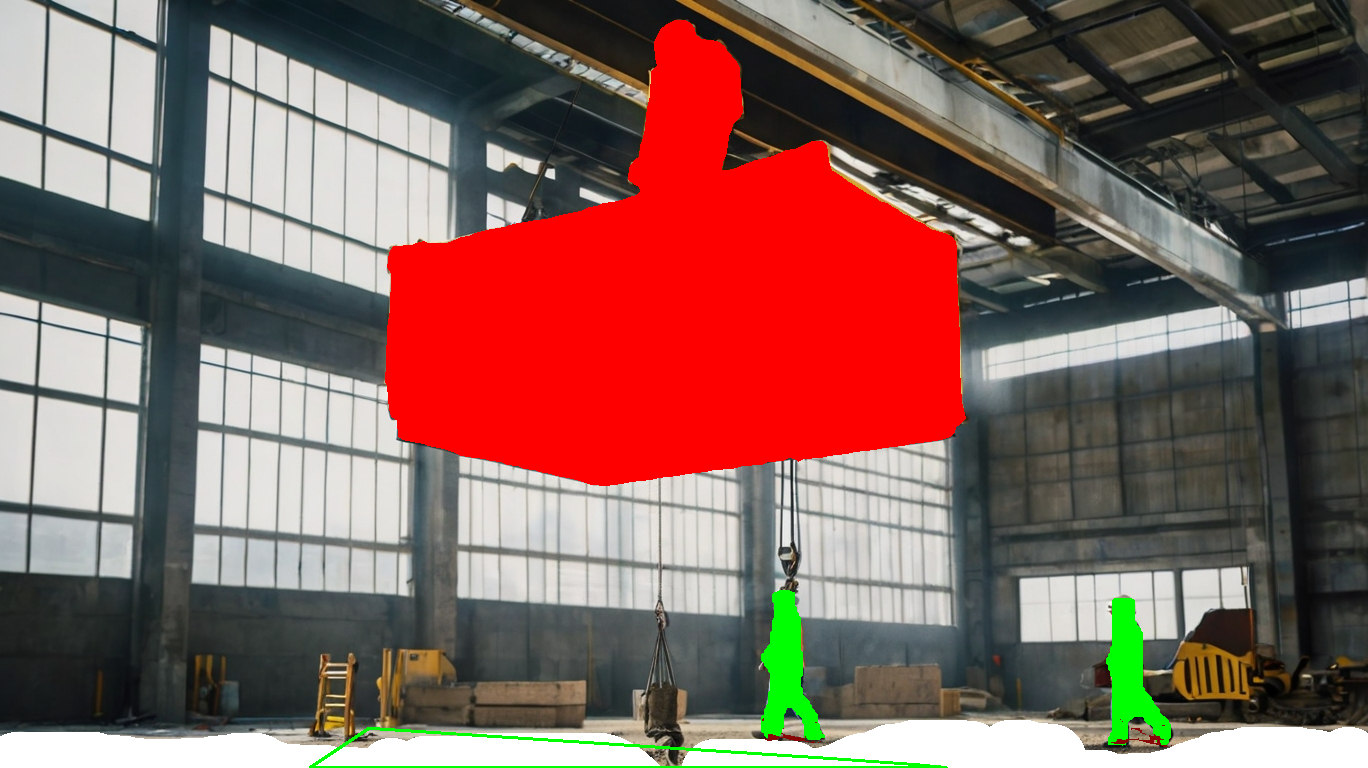
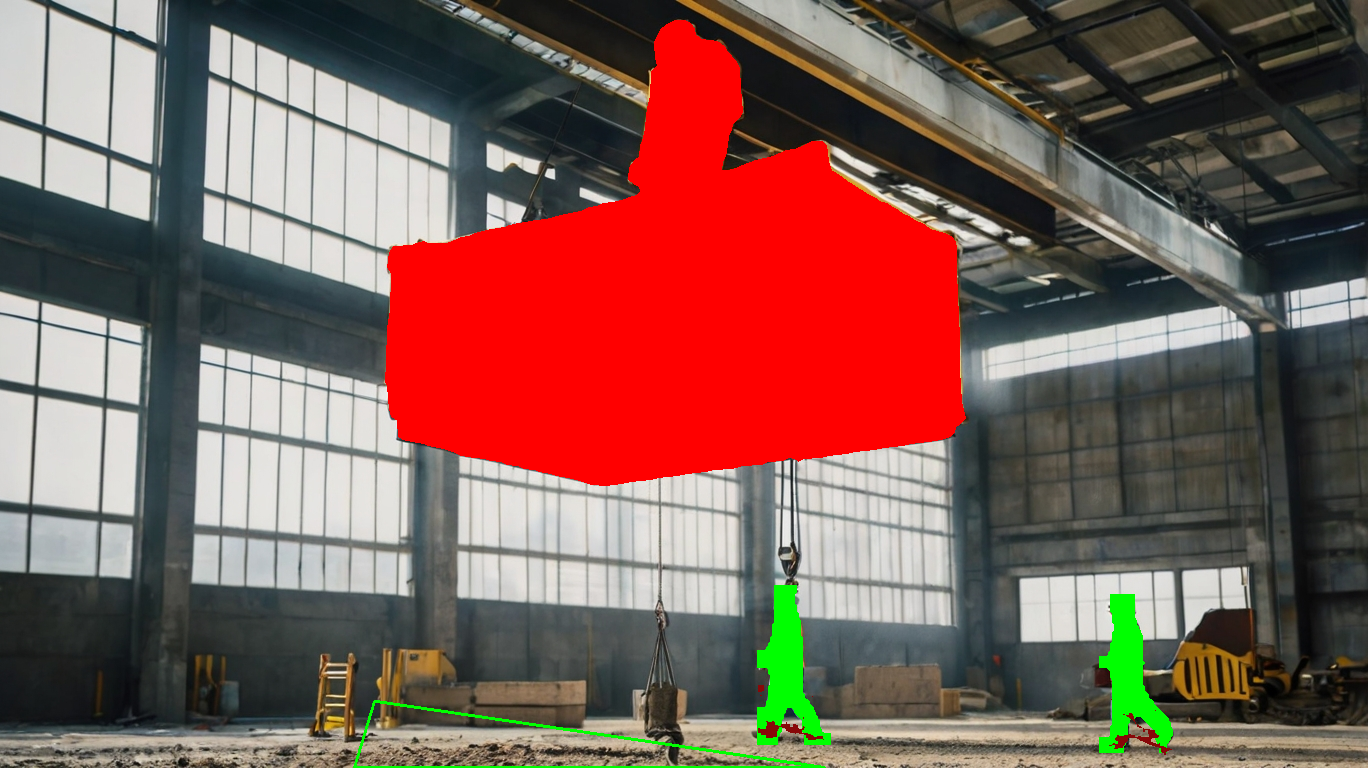
iterative method for ground detection

diff --git a/main.py b/main.py
@@ -13,9 +13,74 @@ import math
 from utils import *
 from glob import glob
 
+def distance_to_plane(XYZ, plane):
+    v1, v2, c = plane
+    normal_vector = np.cross(v1, v2)
+    normal_norm = np.linalg.norm(normal_vector)
+    normal_vector_normalized = normal_vector / normal_norm
+    c = c.reshape(1, 1, 3)
+    normal_vector_normalized = normal_vector_normalized.reshape(1, 1, 3)
+    diff = XYZ - c
+    dot_product = np.sum(diff * normal_vector_normalized, axis=2)
+    distances = np.abs(dot_product)
+    return distances
+
+def fit_ground_single(XYZ, p):
+    px, py = p
+    candidates = XYZ[py-20:py+20, px-50:px+50].reshape((-1, 3))
+    for i in range(5):
+        print(candidates.shape)
+        if len(candidates) > 5000:
+            candidates = candidates[np.random.choice(len(candidates), 5000, replace=False)]
+        plane = fit_plane_to_points(candidates)
+        print(plane)
+        dist = distance_to_plane(XYZ, plane)
+        dist_filter = dist < 0.1 / 2**i
+        candidates = XYZ[dist_filter]
+    return plane
+
+
+def fit_ground(XYZ):
+    height = XYZ.shape[0]
+    width = XYZ.shape[1]
+    p1x = int(width * 1/6)
+    p2x = int(width * 4/6)
+    p3x = int(width * 5/6)
+    p1y = int(height-20)
+    p2y = int(height-20)
+    p3y = int(height-20)
+    
+    ps = [(p1x, p1y), (p2x, p2y), (p3x, p3y)]
+    planes = []
+    xs = []
+
+    #return fit_ground_single(XYZ, ps[0])
+
+    for p in ps:
+        plane = fit_ground_single(XYZ, p)
+        planes.append(plane)
+        v1, v2, c = plane
+        x = np.cross(v1, v2)
+        x = x / np.linalg.norm(x)
+        xs.append(x)
+
+    # majority vote
+    x01 = abs(np.dot(xs[0], xs[1]))
+    x02 = abs(np.dot(xs[0], xs[2]))
+    x12 = abs(np.dot(xs[1], xs[2]))
+    xxx = min(x01, x02, x12)
+    if xxx == x01:
+        return planes[0]
+    if xxx == x02:
+        return planes[2]
+    if xxx == x12:
+        return planes[1]
+
+
 FIELD_OF_VIEW = 87
 
 device = torch.device('cuda' if torch.cuda.is_available() else 'cpu')
+print(device)
 image_paths = glob('assets/images/*')
 mask_paths = set(glob('assets/ground/*'))
 
@@ -28,11 +93,6 @@ for image_path in image_paths:
     image = cv2.imread(image_path)
     rgb_image = cv2.cvtColor(image, cv2.COLOR_BGR2RGB)
     show_image = cv2.cvtColor(image, cv2.COLOR_BGR2RGB)
-
-    # Ground Mask
-    ground_image = cv2.imread(f'assets/ground/{image_name}.png')
-    ground_mask = ground_image[:, :, 0] > 0
-    show_image[ground_mask] = (255, 255, 255)
 
 
     # DepthAnythingV2
@@ -80,11 +140,7 @@ for image_path in image_paths:
     show_image[person_mask] = person_color
 
 
-    # now we have ground mask, person mask, and load mask
-    ground_XYZ = XYZ[ground_mask]
-    if len(ground_XYZ) > 5000:
-        ground_XYZ = ground_XYZ[np.random.choice(len(ground_XYZ), 5000, replace=False)]
-    plane = fit_plane_to_points(ground_XYZ)
+    plane = fit_ground(XYZ)
     print(plane)
 
     person_XYZ = XYZ[person_mask]
@@ -134,7 +190,7 @@ for image_path in image_paths:
 
     show_image[projected_person_mask] = projected_person_color
 
-    cv2.imshow('image', cv2.cvtColor(show_image, cv2.COLOR_BGR2RGB))
+    #cv2.imshow('image', cv2.cvtColor(show_image, cv2.COLOR_BGR2RGB))
     cv2.waitKey(0)
     cv2.destroyAllWindows()
     cv2.imwrite(f'assets/outputs/{image_name}.png', cv2.cvtColor(show_image, cv2.COLOR_RGB2BGR))
